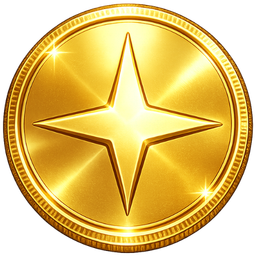
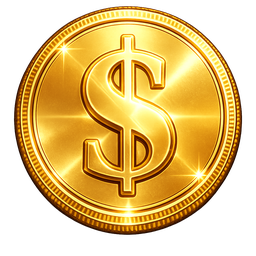
Combo Creator: swap the points coin for the new dollar-symbol coin (matches main game)

diff --git a/Multi-View-Screen/10ten.html b/Multi-View-Screen/10ten.html
@@ -1014,7 +1014,7 @@ function showOverlay(kind) {
         <span class="emoji" style="display:none">${CONFIG.items[CONFIG.target].emoji}</span>
       </div>
       <h2>You did it!</h2>
-      <p>You completed the side quest and topped up <img class="coin-inline" src="coin.png?v=1" alt="points"></p>
+      <p>You completed the side quest and topped up <img class="coin-inline" src="coin.png?v=2" alt="points"></p>
       <p class="swipes-line">Delivered in <b>${state.moves}</b> swipe${state.moves === 1 ? "" : "s"}</p>
       ${miniScores()}
       <div class="btn-row">